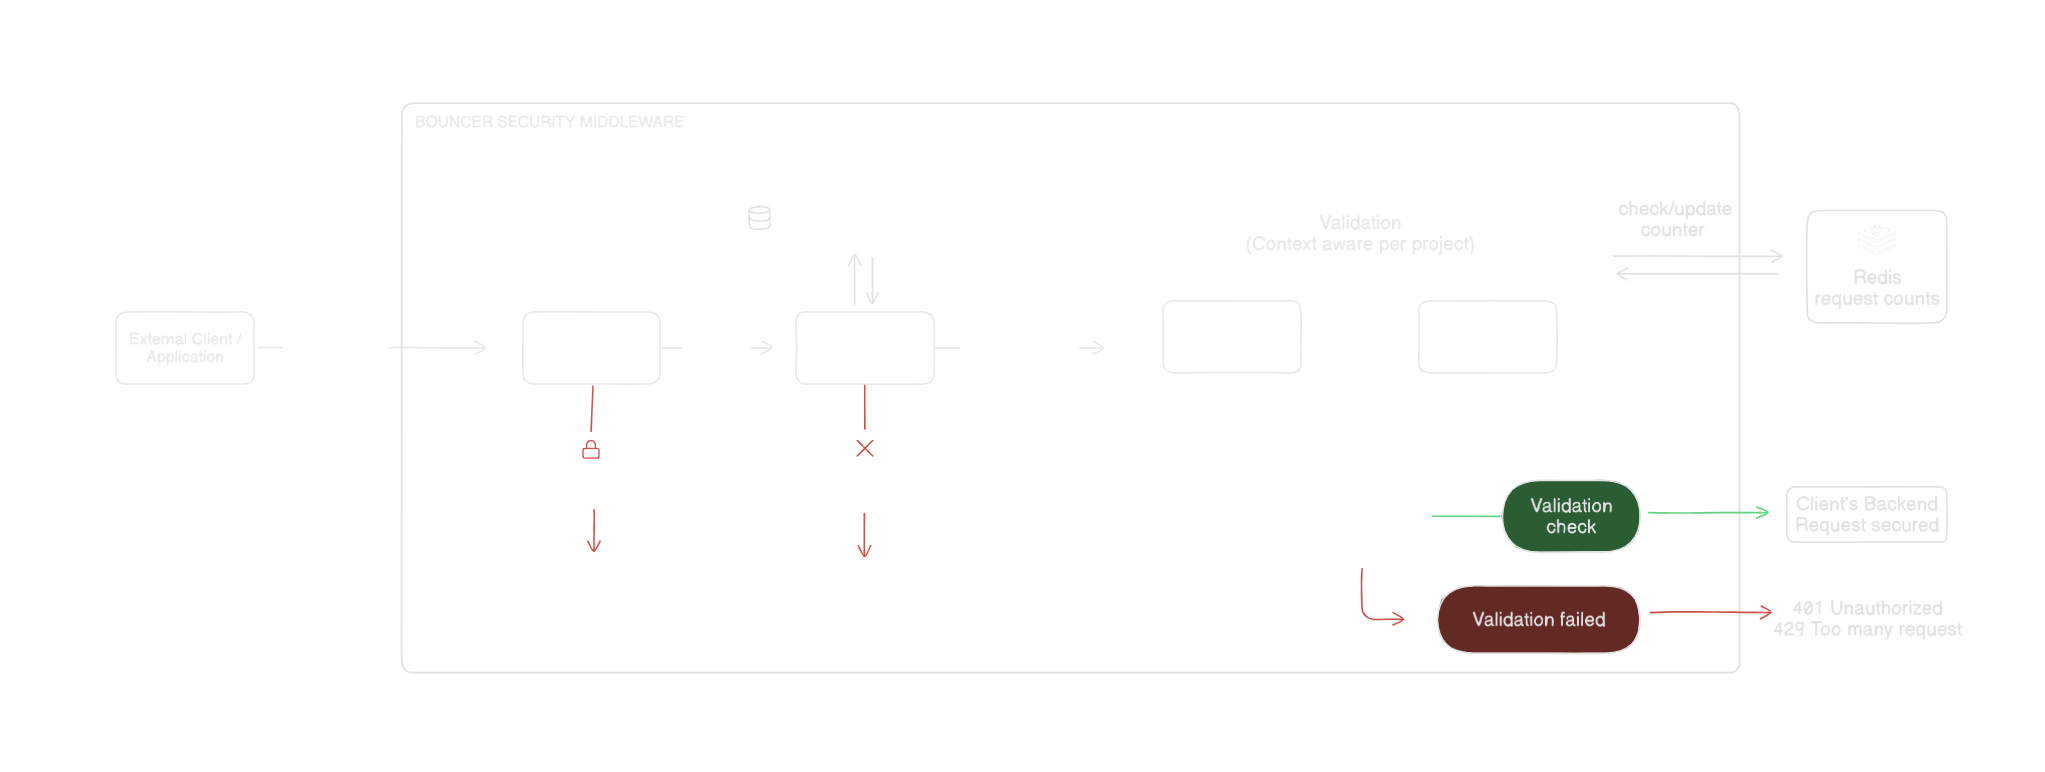
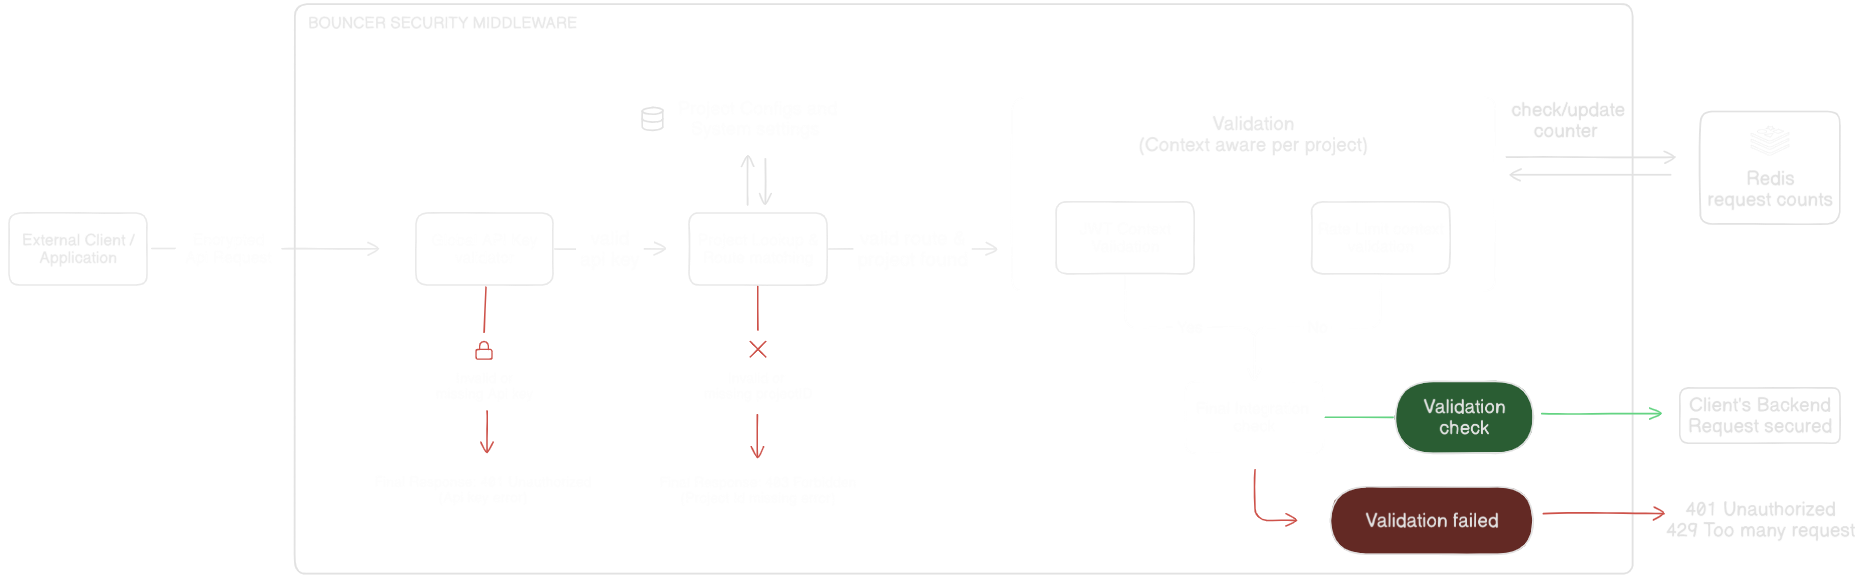
Adding Bouncer Architecture

diff --git a/Frontend/src/components/Docs/docs-getting-started/DocsHowBouncerWorks.jsx b/Frontend/src/components/Docs/docs-getting-started/DocsHowBouncerWorks.jsx
@@ -1,0 +1,172 @@
+import TablesOfContents from "../TableOfContents";
+
+function DocsHowBouncerWorks() {
+  const sections = [
+    {
+      id: "internal-architecture",
+      label: "Internal Architecture",
+    },
+    {
+      id: "redis-rate-limiting",
+      label: "Redis Rate Limiting",
+    },
+    {
+      id: "status-codes",
+      label: "Status Codes",
+    },
+  ];
+
+  return (
+    <div>
+      <div className="max-w-6xl mx-auto flex gap-16">
+        {/* Main Content */}
+        <div className="flex-1 min-w-0">
+          {/* Internal Architecture */}
+          <section id="internal-architecture" className="">
+            <h2 className="text-xl font-semibold">Internal Architecture</h2>
+
+            <p className="mt-2 text-base leading-8 text-zinc-400">
+              When a request reaches Bouncer, the platform identifies the target
+              route, loads the associated project configuration, validates the
+              request credentials, and applies any configured rate limiting
+              policies.
+            </p>
+
+            <p className="mt-2 text-base leading-8 text-zinc-400">
+              Requests that successfully pass all validation checks are allowed
+              to continue to the protected backend service. Requests that fail
+              validation are rejected immediately with the appropriate response
+              code.
+            </p>
+
+            <img
+              src="/architecture/Bouncer-architecture.png"
+              alt="Bouncer Architecture Diagram"
+              className="mt-10 "
+            />
+          </section>
+
+          {/* Redis */}
+          <section id="redis-rate-limiting" className="mt-16">
+            <h2 className="text-xl font-semibold">Redis Rate Limiting</h2>
+
+            <p className="mt-2 text-base leading-8 text-zinc-400">
+              Bouncer uses Redis as a high-performance in-memory datastore to
+              track request counts and enforce rate limiting rules.
+            </p>
+
+            <p className="mt-2 text-base leading-8 text-zinc-400">
+              Every request generates a unique rate limiting key. Redis stores
+              and increments counters for these keys, allowing Bouncer to
+              determine whether a request falls within the configured request
+              limit.
+            </p>
+
+            <p className="mt-6 text-base leading-8 text-zinc-400">
+              A typical Redis key may look like:
+            </p>
+
+            <div className="rounded-lg border border-zinc-800 p-4 mt-4 overflow-x-auto">
+              <pre className="text-sm text-zinc-300">
+                {`rate_limit:project_123:user_456`}
+              </pre>
+            </div>
+
+            <p className="mt-6 text-base leading-8 text-zinc-400">
+              Each incoming request increments the counter associated with the
+              key. Once the configured threshold is exceeded, Bouncer blocks
+              additional requests until the rate limit window resets.
+            </p>
+          </section>
+
+          {/* Status Codes */}
+          <section id="status-codes" className="mt-16">
+            <h2 className="text-xl font-semibold">
+              Frequently Encountered Status Codes
+            </h2>
+
+            <p className="mt-2 text-base leading-8 text-zinc-400">
+              During integration and day-to-day usage, developers will commonly
+              encounter the following response codes.
+            </p>
+
+            <div className="mt-6 space-y-2">
+              <div className="flex gap-4 rounded-lg border border-zinc-800 p-4">
+                <span className="h-fit rounded-md bg-emerald-500/15 px-3 py-1 text-sm font-medium text-emerald-400">
+                  200 OK
+                </span>
+                <p className="text-zinc-400">
+                  The request successfully passed all validation checks and was
+                  allowed to proceed.
+                </p>
+              </div>
+
+              <div className="flex gap-4 rounded-lg border border-zinc-800 p-4">
+                <span className="h-fit rounded-md bg-amber-500/15 px-3 py-1 text-sm font-medium text-amber-400">
+                  400 Bad Request
+                </span>
+                <p className="text-zinc-400">
+                  The request contains invalid or improperly formatted data.
+                </p>
+              </div>
+
+              <div className="flex gap-4 rounded-lg border border-zinc-800 p-4">
+                <span className="h-fit rounded-md bg-yellow-500/15 px-3 py-1 text-sm font-medium text-yellow-400">
+                  401 Unauthorized
+                </span>
+                <p className="text-zinc-400">
+                  Authentication failed because credentials are missing or
+                  invalid.
+                </p>
+              </div>
+
+              <div className="flex gap-4 rounded-lg border border-zinc-800 p-4">
+                <span className="h-fit rounded-md bg-orange-500/15 px-3 py-1 text-sm font-medium text-orange-400">
+                  403 Forbidden
+                </span>
+                <p className="text-zinc-400">
+                  The request was authenticated but does not satisfy access
+                  rules.
+                </p>
+              </div>
+
+              <div className="flex gap-4 rounded-lg border border-zinc-800 p-4">
+                <span className="h-fit rounded-md bg-sky-500/15 px-3 py-1 text-sm font-medium text-sky-400">
+                  404 Not Found
+                </span>
+                <p className="text-zinc-400">
+                  The requested route, project, or resource could not be
+                  located.
+                </p>
+              </div>
+
+              <div className="flex gap-4 rounded-lg border border-zinc-800 p-4">
+                <span className="h-fit rounded-md bg-red-500/15 px-3 py-1 text-sm font-medium text-red-400">
+                  429 Too Many Requests
+                </span>
+                <p className="text-zinc-400">
+                  The configured rate limit has been exceeded.
+                </p>
+              </div>
+
+              <div className="flex gap-4 rounded-lg border border-zinc-800 p-4">
+                <span className="h-fit rounded-md bg-rose-500/15 px-3 py-1 text-sm font-medium text-rose-400">
+                  500 Internal Server Error
+                </span>
+                <p className="text-zinc-400">
+                  An unexpected server-side error occurred while processing the
+                  request.
+                </p>
+              </div>
+            </div>
+          </section>
+        </div>
+
+        {/* Right Sidebar */}
+        <TablesOfContents sections={sections} />
+      </div>
+    </div>
+  );
+}
+
+export default DocsHowBouncerWorks;

diff --git a/Frontend/src/pages/Documents/getting-started/HowBouncerWorksDoc.jsx b/Frontend/src/pages/Documents/getting-started/HowBouncerWorksDoc.jsx
@@ -1,0 +1,32 @@
+import DocsSidebar from "../../../components/Docs/DocsSidebar";
+import DashboardHeader from "../../../components/DashboardHeader";
+import DocsHeaderValues from "../../../utils/HelperFunctions/DocsHeaderValues";
+import DocsFooter from "../../../components/Docs/DocsFooter";
+import DocsHowBouncerWorks from "../../../components/Docs/docs-getting-started/DocsHowBouncerWorks";
+
+function HowBouncerWorksDoc() {
+  return (
+    <div className="h-screen overflow-hidden bg-black text-white">
+      <DocsSidebar />
+
+      <main
+        id="docs-scroll-container"
+        className="h-screen overflow-y-auto md:ml-72"
+      >
+        <div className="max-w-6xl mx-auto px-4 sm:px-6 py-4">
+          <DashboardHeader
+            tag={DocsHeaderValues.docsHome.tag}
+            title={DocsHeaderValues.docsHome.title}
+            description={DocsHeaderValues.docsHome.description}
+            features={DocsHeaderValues.docsHome.features}
+          />
+
+          <DocsHowBouncerWorks />
+          <DocsFooter />
+        </div>
+      </main>
+    </div>
+  );
+}
+
+export default HowBouncerWorksDoc;

diff --git a/Frontend/src/utils/HelperFunctions/docsPathSidebar.js b/Frontend/src/utils/HelperFunctions/docsPathSidebar.js
@@ -4,8 +4,7 @@ export const getInitialSection = (pathname) => {
     [
       "/docs/introduction",
       "/docs/quickstart",
-      "/docs/create-project",
-      "/docs/generate-api-keys",
+      "/docs/architecture",
     ].includes(pathname)
   ) {
     return "getting-started";

diff --git a/Frontend/src/routes/RoutePage.jsx b/Frontend/src/routes/RoutePage.jsx
@@ -9,6 +9,7 @@ import ProjectRouteGuard from "../utils/HelperFunctions/ProjectRouteGuard";
 // Docs
 import IntroductionDoc from "../pages/Documents/getting-started/IntroductionDoc";
 import QuickStartDoc from "../pages/Documents/getting-started/QuickStartDoc";
+import HowBouncerWorksDoc from "../pages/Documents/getting-started/HowBouncerWorksDoc";
 import IntegrationDoc from "../pages/Documents/Integration/IntegrationDoc";
 import FrontendDoc from "../pages/Documents/Integration/FrontendDoc";
 import BackendDoc from "../pages/Documents/Integration/BackendDoc";
@@ -53,6 +54,7 @@ function RoutePage() {
         {/* Docs */}
         <Route path="/docs/introduction" element={<IntroductionDoc />} />
         <Route path="/docs/quickstart" element={<QuickStartDoc />} />
+        <Route path="/docs/architecture" element={<HowBouncerWorksDoc />} />
         <Route path="/docs/integration-overview" element={<IntegrationDoc />} />
         <Route path="/docs/frontend-integration" element={<FrontendDoc />} />
         <Route path="/docs/backend-integration" element={<BackendDoc />} />